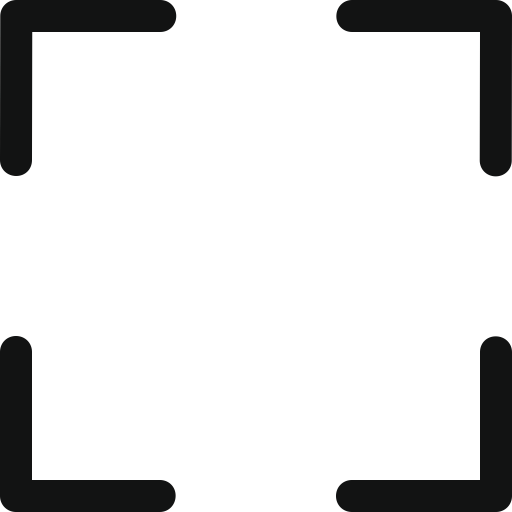
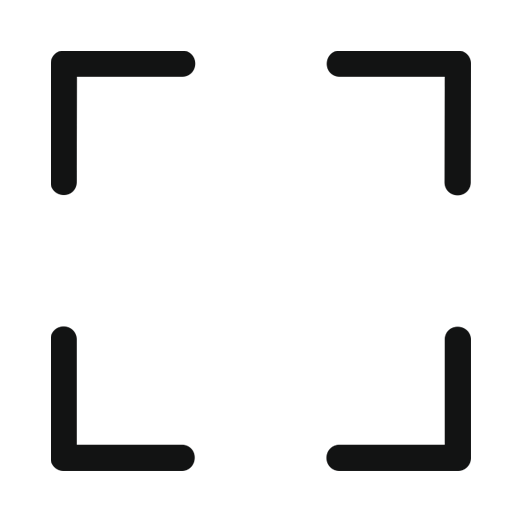
[update] icon_button

diff --git a/client/nxi/source/ui/interface/control_bar.cpp b/client/nxi/source/ui/interface/control_bar.cpp
@@ -22,9 +22,9 @@ namespace ui::interfaces
             auto layout = new nxw::hbox_layout;
             setLayout(layout);
 
-            layout->addWidget(new nxw::icon_button(this, "window_minimize", 32, 16));
-            layout->addWidget(new nxw::icon_button(this, "window_maximize", 32, 16));
-            layout->addWidget(new nxw::icon_button(this, "window_close", 32, 16));
+            layout->addWidget(new nxw::icon_button(this, "window_minimize"));
+            layout->addWidget(new nxw::icon_button(this, "window_maximize"));
+            layout->addWidget(new nxw::icon_button(this, "window_close"));
         }
     };
 
@@ -35,7 +35,7 @@ namespace ui::interfaces
         setLayout(layout);
         setStyleSheet("border-bottom:1px solid #CCCCCC;");
 
-        auto btn_menu = new nxw::icon_button(this, "menu", 24);
+        auto btn_menu = new nxw::icon_button(this, "menu");
 
         QMenu* menu = new QMenu(this);
         auto a_quit = new QAction("quit", menu);
@@ -73,10 +73,10 @@ namespace ui::interfaces
         layout->addWidget(btn_menu);
         layout->addSpacing(64);
 
-        layout->addWidget(new nxw::icon_button(this, "history_previous", 32, 24));
-        layout->addWidget(new nxw::icon_button(this, "history_next", 32, 24));
-        layout->addWidget(new nxw::icon_button(this, "notification_none", 32, 24));
-        layout->addWidget(new nxw::icon_button(this, "download", 32, 24));
+        layout->addWidget(new nxw::icon_button(this, "history_previous"));
+        layout->addWidget(new nxw::icon_button(this, "history_next"));
+        layout->addWidget(new nxw::icon_button(this, "notification_none"));
+        layout->addWidget(new nxw::icon_button(this, "download"));
 
         layout->addSpacing(16);
         layout->addWidget(m_context);

diff --git a/client/nxi/include/nxw/icon_button.hpp b/client/nxi/include/nxw/icon_button.hpp
@@ -1,5 +1,5 @@
-#ifndef NXW_BUTTON_H_NXI
-#define NXW_BUTTON_H_NXI
+#ifndef NXW_ICON_BUTTON_H_NXI
+#define NXW_ICON_BUTTON_H_NXI
 
 #include <QPushButton>
 
@@ -9,14 +9,12 @@ namespace nxw
     {
         Q_OBJECT
     public:
-        icon_button(QWidget* parent, const QString& icon, int width, int height = 0)
+        icon_button(QWidget* parent, const QString& icon)
         {
-            if (height == 0) height = width;
             setIcon(QIcon(":/button/" + icon));
-            setIconSize(QSize(width, height));
-            setFixedSize(width, height);
+            setStyleSheet("QPushButton:hover { border:none; background-color: #DDDDDD; } QPushButton:pressed { border:none; background-color: #BBBBBB; }");
         }
     };
 } // nxw
 
-#endif // NXW_BUTTON_H_NXI
+#endif // NXW_ICON_BUTTON_H_NXI

diff --git a/client/nxi/source/ui/interface/page_bar.cpp b/client/nxi/source/ui/interface/page_bar.cpp
@@ -23,8 +23,8 @@ namespace ui::interfaces
 
         page_tree_ = new nxw::tree(ui_core_);
 
-        auto btn_web_new = new nxw::icon_button(this, "page_web_new", 24);
-        auto btn_explorer_new = new nxw::icon_button(this, "page_explorer_new", 24);
+        auto btn_web_new = new nxw::icon_button(this, "page_web_new");
+        auto btn_explorer_new = new nxw::icon_button(this, "page_explorer_new");
 
         page_control_layout->addWidget(btn_web_new);
         page_control_layout->addWidget(btn_explorer_new);
